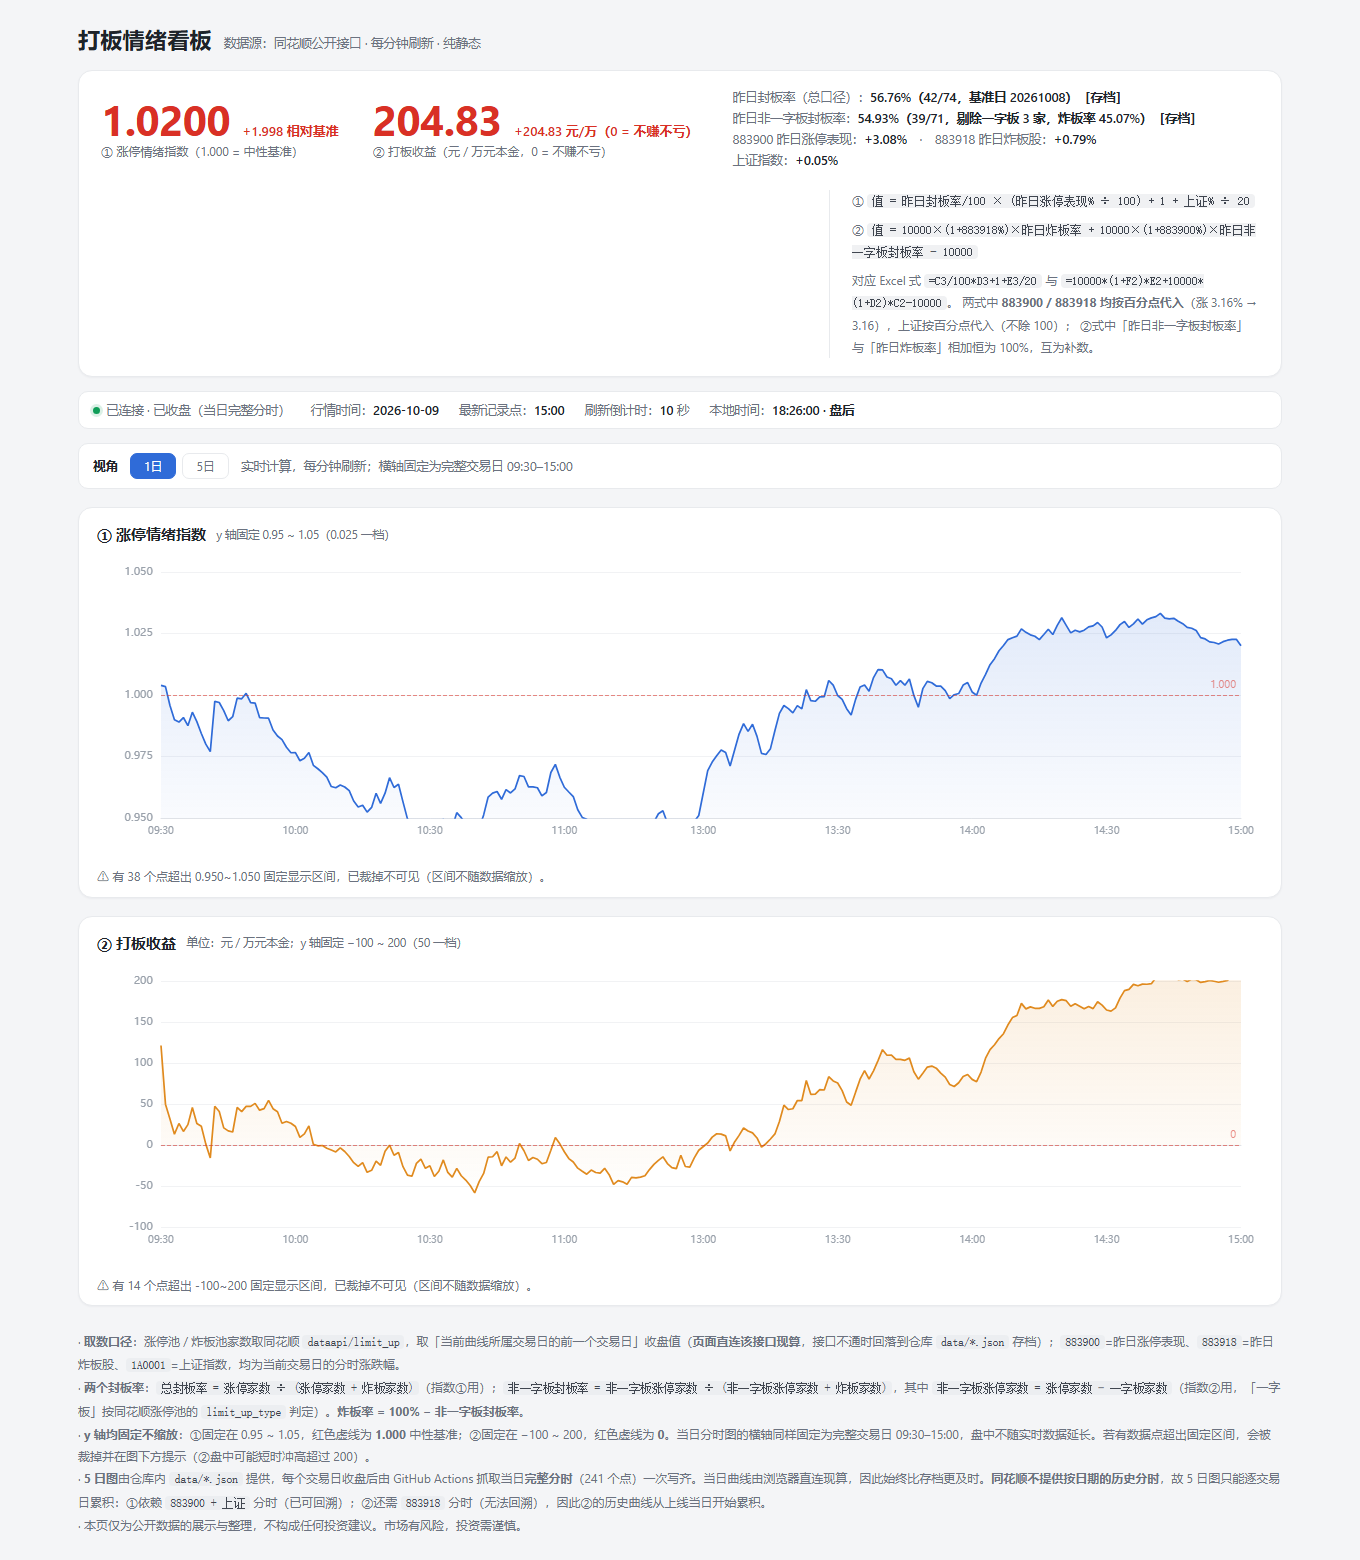
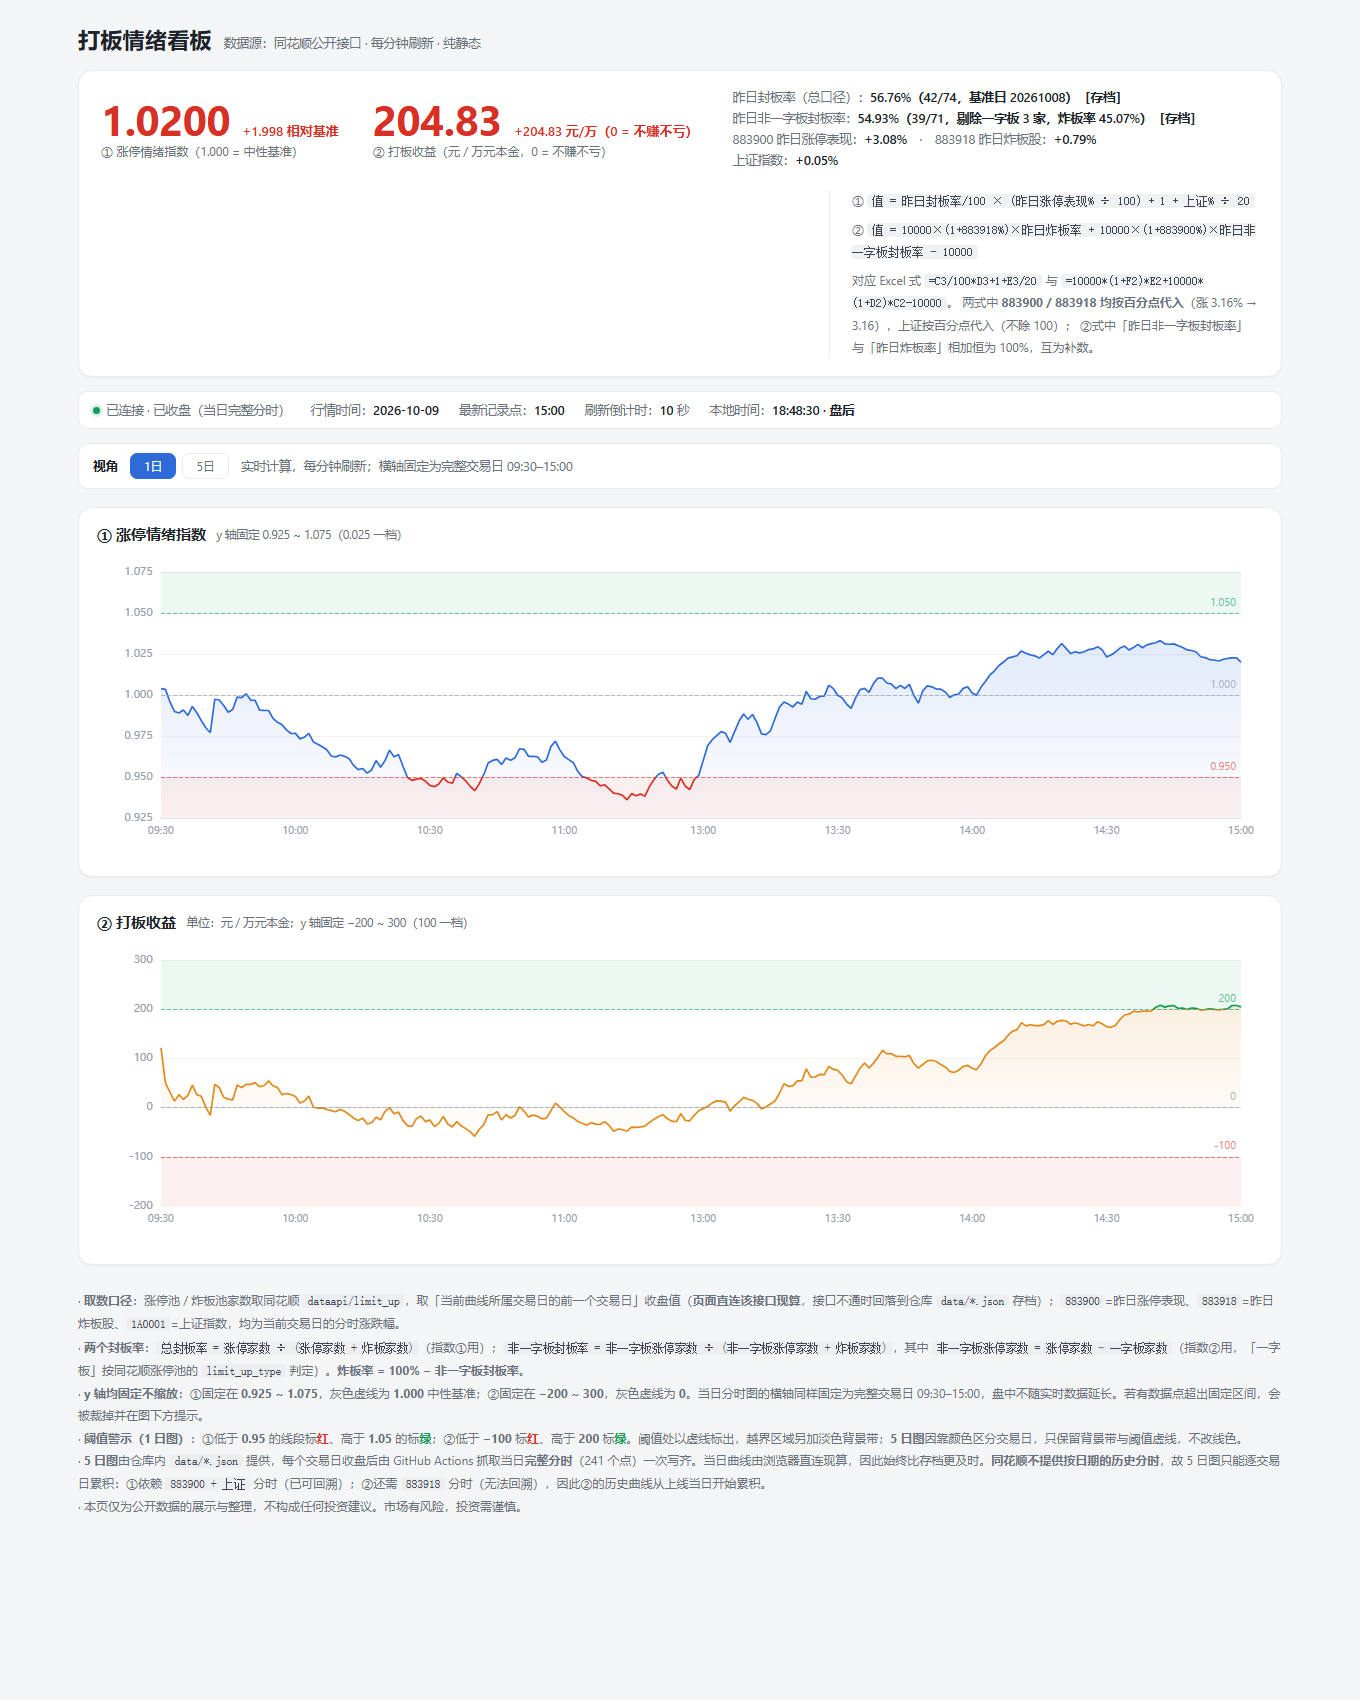
feat: y 轴区间调整为 0.925~1.075 / -200~300；1日图线段按阈值分段染色（跌破标红、涨破标绿）+ 阈值虚线与背景警示带

diff --git a/app.js b/app.js
@@ -5,24 +5,37 @@
    * 两个指数
    *  ① 涨停情绪指数（无量纲，1.000 = 中性）
    *     值 = 昨日封板率/100 × (883900涨跌幅% ÷ 100) + 1 + 上证涨跌幅% ÷ 20
-   *     Excel 式 =C3/100*D3+1+E3/20          → y 轴固定 0.95 ~ 1.05
+   *     Excel 式 =C3/100*D3+1+E3/20          → y 轴固定 0.925 ~ 1.075
+   *                                             （跌破 0.95 的线段标红、涨破 1.05 的标绿）
    *
    *  ② 打板收益（元 / 万元本金，0 = 不赚不亏）
    *     值 = 10000*(1+883918%)*昨日炸板率 + 10000*(1+883900%)*昨日非一字板封板率 − 10000
    *     Excel 式 =10000*(1+F2)*E2+10000*(1+D2)*C2-10000
    *     条件：昨日非一字板封板率(C) + 昨日炸板率(E) = 100%，故等价于
    *     值 = 100 × ( 883918% × 炸板率 + 883900% × 非一字板封板率 )
-   *     → y 轴固定 −100 ~ 200
+   *     → y 轴固定 −200 ~ 300
+   *       （跌破 −100 的线段标红、涨破 200 的标绿）
    * ============================================================ */
   var BASE = 'https://d.10jqka.com.cn';
   var REFRESH_SEC = 60;
   var DAYS_5D = 5;
-  var COLORS = ['#2f6bd8', '#d93025', '#0f9d58', '#e08a1e', '#7b61c9'];
+  // 5 日图「每天一色」的调色板：刻意避开纯红 / 纯绿，
+  // 因为红=跌破下阈、绿=涨破上阈，日期色不该和警示色抢同一套语义。
+  var COLORS = ['#2f6bd8', '#7b61c9', '#0d8ba6', '#c08a2e', '#6b7a8f'];
 
-  // 指数①：y 轴固定区间
-  var Y_MIN = 0.95, Y_MAX = 1.05, Y_STEP = 0.025, Y_BASE = 1;
-  // 指数②：y 轴固定区间
-  var Y2_MIN = -100, Y2_MAX = 200, Y2_STEP = 50, Y2_BASE = 0;
+  // 指数①：y 轴固定区间（0.925 ~ 1.075，7 条刻度，0.95 / 1.05 刚好落在刻度上）
+  var Y_MIN = 0.925, Y_MAX = 1.075, Y_STEP = 0.025, Y_BASE = 1;
+  // 指数②：y 轴固定区间（-200 ~ 300，6 条刻度，-100 / 200 刚好落在刻度上）
+  var Y2_MIN = -200, Y2_MAX = 300, Y2_STEP = 100, Y2_BASE = 0;
+
+  /* 超阈区间警示色：跌破下阈 = 红，涨破上阈 = 绿（沿用 A 股「红跌绿涨」之外的
+   * 「危险 = 红 / 安全 = 绿」语义，两处阈值由用户指定）
+   *   ① 区间 0.95 ~ 1.05（中性基准 1.000）
+   *   ② 区间 -100 ~ 200（中性基准 0）        */
+  var TH1_LO = 0.95, TH1_HI = 1.05;
+  var TH2_LO = -100, TH2_HI = 200;
+  var C_RED = '#d93025', C_GREEN = '#0f9d58';
+  var C_BASE = '#8b929c';            // 中性基准线（灰）
 
   var charts = {};
   var left = REFRESH_SEC;
@@ -329,12 +342,57 @@
     };
   }
 
-  function badgeLine(y, label) {
+  // 多条横线：中性基准（灰）+ 下阈（红）+ 上阈（绿）
+  function badgeLines(items) {
     return {
       silent: true, symbol: 'none',
-      lineStyle: { color: '#d93025', type: 'dashed', width: 1, opacity: .55 },
-      label: { show: true, position: 'insideEndTop', formatter: label, color: '#d93025', fontSize: 10 },
-      data: [{ yAxis: y }]
+      data: items.map(function (it) {
+        return {
+          yAxis: it.y,
+          lineStyle: {
+            color: it.color, type: 'dashed',
+            width: it.width || 1, opacity: it.opacity == null ? .6 : it.opacity
+          },
+          label: {
+            // 靠右放置：左端会被 y 轴刻度标签压住
+            show: true, position: 'insideEndTop',
+            formatter: it.label, color: it.color, fontSize: 10
+          }
+        };
+      })
+    };
+  }
+
+  // 背景警示带：下阈以下淡红、上阈以上淡绿（silent，不挡 tooltip）
+  function dangerZones(yMin, yMax, lo, hi) {
+    var d = [];
+    if (lo > yMin) {
+      d.push([
+        { yAxis: yMin, itemStyle: { color: 'rgba(217,48,37,.075)' } },
+        { yAxis: lo }
+      ]);
+    }
+    if (hi < yMax) {
+      d.push([
+        { yAxis: hi, itemStyle: { color: 'rgba(15,157,88,.075)' } },
+        { yAxis: yMax }
+      ]);
+    }
+    return { silent: true, data: d };
+  }
+
+  // 按 y 值分段着色（< 下阈 红 / 区间内 本色 / > 上阈 绿）
+  function zoneVisualMap(dim, lo, hi, midColor, seriesIndex) {
+    return {
+      type: 'piecewise',
+      show: false,
+      dimension: dim,
+      seriesIndex: seriesIndex == null ? 0 : seriesIndex,
+      pieces: [
+        { lt: lo, color: C_RED },
+        { gte: lo, lte: hi, color: midColor },
+        { gt: hi, color: C_GREEN }
+      ]
     };
   }
 
@@ -392,11 +450,18 @@
       },
       xAxis: baseXAxis(DAY_TICKS, true),
       yAxis: baseYAxis(Y_MIN, Y_MAX, Y_STEP, 3),
+      visualMap: zoneVisualMap(1, TH1_LO, TH1_HI, '#2f6bd8'),
       series: [{
         type: 'line', data: data, symbol: 'none', smooth: false,
-        lineStyle: { width: 1.7, color: '#2f6bd8' },
+        // 注意：这里不能写死 lineStyle.color，否则会盖掉 visualMap 的分段染色
+        lineStyle: { width: 1.7 },
         areaStyle: areaFill('47,107,216'),
-        markLine: badgeLine(Y_BASE, '1.000')
+        markArea: dangerZones(Y_MIN, Y_MAX, TH1_LO, TH1_HI),
+        markLine: badgeLines([
+          { y: Y_BASE, label: '1.000', color: C_BASE },
+          { y: TH1_LO, label: TH1_LO.toFixed(3), color: C_RED },
+          { y: TH1_HI, label: TH1_HI.toFixed(3), color: C_GREEN }
+        ])
       }]
     }, true);
 
@@ -425,7 +490,7 @@
       });
       // 初期某天可能只有 1-2 个点：此时连线画不出来，至少把点标出来，避免「图例有、图上没有」
       var few = pts.length < 2;
-      series.push({
+      var s = {
         name: day.date,
         type: 'line',
         data: pts,
@@ -435,7 +500,18 @@
         smooth: false,
         lineStyle: { width: 1.5, color: color },
         itemStyle: { color: color }
-      });
+      };
+      // 5 日图靠颜色区分「哪一天」，所以不按阈值改线色，
+      // 只用背景警示带 + 阈值虚线表达「跌破 / 涨破」——挂在第一条线上，避免重复渲染。
+      if (!series.length) {
+        s.markArea = dangerZones(Y_MIN, Y_MAX, TH1_LO, TH1_HI);
+        s.markLine = badgeLines([
+          { y: Y_BASE, label: '1.000', color: C_BASE },
+          { y: TH1_LO, label: TH1_LO.toFixed(3), color: C_RED },
+          { y: TH1_HI, label: TH1_HI.toFixed(3), color: C_GREEN }
+        ]);
+      }
+      series.push(s);
     });
 
     allX.sort();
@@ -537,11 +613,18 @@
       },
       xAxis: baseXAxis(DAY_TICKS, true),
       yAxis: baseYAxis(Y2_MIN, Y2_MAX, Y2_STEP, 0),
+      visualMap: zoneVisualMap(1, TH2_LO, TH2_HI, '#e08a1e'),
       series: [{
         type: 'line', data: data, symbol: 'none', smooth: false,
-        lineStyle: { width: 1.7, color: '#e08a1e' },
+        // 同上：颜色交给 visualMap 分段决定
+        lineStyle: { width: 1.7 },
         areaStyle: areaFill('224,138,30'),
-        markLine: badgeLine(Y2_BASE, '0')
+        markArea: dangerZones(Y2_MIN, Y2_MAX, TH2_LO, TH2_HI),
+        markLine: badgeLines([
+          { y: Y2_BASE, label: '0', color: C_BASE },
+          { y: TH2_LO, label: String(TH2_LO), color: C_RED },
+          { y: TH2_HI, label: String(TH2_HI), color: C_GREEN }
+        ])
       }]
     }, true);
 
@@ -575,11 +658,20 @@
       if (!pts.length) return;                                // 完全没有可用点就不画（避免空图例）
       used.push({ date: day.date, fbl: fbl, color: color });
       var few = pts.length < 2;
-      series.push({
+      var s2 = {
         name: day.date, type: 'line', data: pts,
         symbol: few ? 'circle' : 'none', symbolSize: few ? 6 : 0, showSymbol: few,
         smooth: false, lineStyle: { width: 1.5, color: color }, itemStyle: { color: color }
-      });
+      };
+      if (!series.length) {
+        s2.markArea = dangerZones(Y2_MIN, Y2_MAX, TH2_LO, TH2_HI);
+        s2.markLine = badgeLines([
+          { y: Y2_BASE, label: '0', color: C_BASE },
+          { y: TH2_LO, label: String(TH2_LO), color: C_RED },
+          { y: TH2_HI, label: String(TH2_HI), color: C_GREEN }
+        ]);
+      }
+      series.push(s2);
     });
 
     allX.sort();

diff --git a/index.html b/index.html
@@ -152,7 +152,7 @@
   <div class="grid">
     <section class="card">
       <div class="cardhead">
-        <h2>① 涨停情绪指数 <span class="hint">y 轴固定 0.95 ~ 1.05（0.025 一档）</span></h2>
+        <h2>① 涨停情绪指数 <span class="hint">y 轴固定 0.925 ~ 1.075（0.025 一档）</span></h2>
       </div>
       <div class="chart" id="chartMain"></div>
       <div class="legend" id="legendMain"></div>
@@ -161,7 +161,7 @@
 
     <section class="card">
       <div class="cardhead">
-        <h2>② 打板收益 <span class="hint">单位：元 / 万元本金；y 轴固定 −100 ~ 200（50 一档）</span></h2>
+        <h2>② 打板收益 <span class="hint">单位：元 / 万元本金；y 轴固定 −200 ~ 300（100 一档）</span></h2>
       </div>
       <div class="chart" id="chart2"></div>
       <div class="legend" id="legend2"></div>
@@ -174,7 +174,8 @@
   <footer>
     <div>· <b>取数口径</b>：涨停池 / 炸板池家数取同花顺 <code>dataapi/limit_up</code>，取「当前曲线所属交易日的前一个交易日」收盘值（<b>页面直连该接口现算</b>，接口不通时回落到仓库 <code>data/*.json</code> 存档）；<code>883900</code>=昨日涨停表现、<code>883918</code>=昨日炸板股、<code>1A0001</code>=上证指数，均为当前交易日的分时涨跌幅。</div>
     <div>· <b>两个封板率</b>：<code>总封板率 = 涨停家数 ÷ (涨停家数 + 炸板家数)</code>（指数①用）；<code>非一字板封板率 = 非一字板涨停家数 ÷ (非一字板涨停家数 + 炸板家数)</code>，其中 <code>非一字板涨停家数 = 涨停家数 − 一字板家数</code>（指数②用，「一字板」按同花顺涨停池的 <code>limit_up_type</code> 判定）。<b>炸板率 = 100% − 非一字板封板率</b>。</div>
-    <div>· <b>y 轴均固定不缩放</b>：①固定在 0.95 ~ 1.05，红色虚线为 <b>1.000</b> 中性基准；②固定在 −100 ~ 200，红色虚线为 <b>0</b>。当日分时图的横轴同样固定为完整交易日 09:30–15:00，盘中不随实时数据延长。若有数据点超出固定区间，会被裁掉并在图下方提示（②盘中可能短时冲高超过 200）。</div>
+    <div>· <b>y 轴均固定不缩放</b>：①固定在 <b>0.925 ~ 1.075</b>，灰色虚线为 <b>1.000</b> 中性基准；②固定在 <b>−200 ~ 300</b>，灰色虚线为 <b>0</b>。当日分时图的横轴同样固定为完整交易日 09:30–15:00，盘中不随实时数据延长。若有数据点超出固定区间，会被裁掉并在图下方提示。</div>
+    <div>· <b>阈值警示（1 日图）</b>：①低于 <b>0.95</b> 的线段标<b style="color:#d93025">红</b>、高于 <b>1.05</b> 的标<b style="color:#0f9d58">绿</b>；②低于 <b>−100</b> 标<b style="color:#d93025">红</b>、高于 <b>200</b> 标<b style="color:#0f9d58">绿</b>。阈值处以虚线标出，越界区域另加淡色背景带；<b>5 日图</b>因靠颜色区分交易日，只保留背景带与阈值虚线，不改线色。</div>
     <div>· <b>5 日图</b>由仓库内 <code>data/*.json</code> 提供，每个交易日收盘后由 GitHub Actions 抓取当日<b>完整分时</b>（241 个点）一次写齐。当日曲线由浏览器直连现算，因此始终比存档更及时。<b>同花顺不提供按日期的历史分时</b>，故 5 日图只能逐交易日累积：①依赖 <code>883900 + 上证</code> 分时（已可回溯）；②还需 <code>883918</code> 分时（无法回溯），因此②的历史曲线从上线当日开始累积。</div>
     <div>· 本页仅为公开数据的展示与整理，不构成任何投资建议。市场有风险，投资需谨慎。</div>
   </footer>

diff --git a/README.md b/README.md
@@ -4,8 +4,8 @@
 
 | 指数 | 含义 | 单位 | y 轴（固定） |
 |---|---|---|---|
-| ① 涨停情绪指数 | 打板赚钱效应的强弱 | 无量纲，1.000 = 中性 | `0.95 ~ 1.05`（0.025 一档） |
-| ② 打板收益 | 昨日涨停 / 炸板组合今日的期望盈亏 | 元 / 万元本金，0 = 不赚不亏 | `-100 ~ 200`（50 一档） |
+| ① 涨停情绪指数 | 打板赚钱效应的强弱 | 无量纲，1.000 = 中性 | `0.925 ~ 1.075`（0.025 一档） |
+| ② 打板收益 | 昨日涨停 / 炸板组合今日的期望盈亏 | 元 / 万元本金，0 = 不赚不亏 | `-200 ~ 300`（100 一档） |
 
 ```
 ① 值 = 昨日封板率/100 × (883900涨跌幅% ÷ 100) + 1 + 上证涨跌幅% ÷ 20
@@ -37,9 +37,22 @@
 
 ### 1日视图的 y 轴固定，不随数据缩放
 
-- ① 固定 `0.95 ~ 1.05`，红色虚线为 `1.000` 中性基准；
-- ② 固定 `-100 ~ 200`，红色虚线为 `0`。
+- ① 固定 `0.925 ~ 1.075`，灰色虚线为 `1.000` 中性基准；
+- ② 固定 `-200 ~ 300`，灰色虚线为 `0`。
 - 超出区间的点会被**裁掉不可见**，图下方给出「⚠ 有 N 个点超出固定显示区间」提示，避免误读成"没数据"。
+
+### 阈值警示（红 / 绿）
+
+| 图 | 下阈（标红） | 上阈（标绿） |
+|---|---|---|
+| ① 涨停情绪指数 | `0.95` | `1.05` |
+| ② 打板收益 | `-100` | `200` |
+
+- **1 日图**：用 `visualMap` 把线段按 y 值**分段染色**——跌破下阈的段变红、涨破上阈的段变绿，区间内保持本色（①蓝 / ②橙）。
+  ⚠ `series.lineStyle` 里**不能再写死 `color`**，否则会盖掉 `visualMap` 的分段色（这是本次踩到的坑）。
+- **5 日图**：因为靠颜色区分「哪一天」，**不改线色**，只画背景警示带 + 阈值虚线。
+- 两张图都在阈值处画虚线（下阈红、上阈绿、中性基准灰），并把越界区域加淡色背景带（下淡红 / 上淡绿）。
+- 虚线标签放在**右端**（`insideEndTop`），否则会与左端 y 轴刻度标签压在一起。
 
 ---
 
@@ -211,8 +224,8 @@ git push -u origin main
 - GitHub Actions 的定时触发**不保证准点**，高峰期可能延迟；本工作流已给 3 个冗余时间点，
   且改成「一次抓全天」，漏 1–2 次也不影响数据完整性。
 - `883918` 的**日线历史数据是同花顺侧的脏数据**（长期恒等于 1000.008），只有实时 / 分时可用。
-- ② 的 y 轴按需求固定在 `-100 ~ 200`，**盘中冲高超过 200 的部分会被裁掉**（图下有提示），
-  例如 10-09 收盘 204.83 就落在界外。
+- ② 的 y 轴固定在 `-200 ~ 300`（原为 `-100 ~ 200`，10-09 收盘 204.83 顶出上界后放宽）。
+  超出 `300` / 低于 `-200` 的点仍会被裁掉（图下有提示）。
 - 同花顺接口如变更路径或加反爬，采集会失败，页面会退回显示最近存档（不会白屏）。
 - 页面与采集脚本都依赖同花顺公开接口，属第三方数据，**不保证长期稳定**。
 
